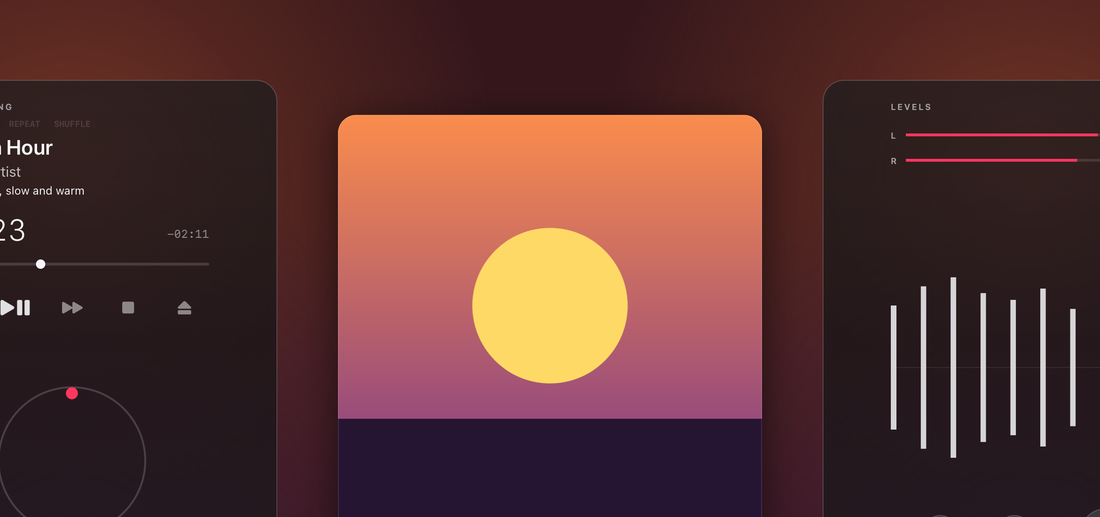
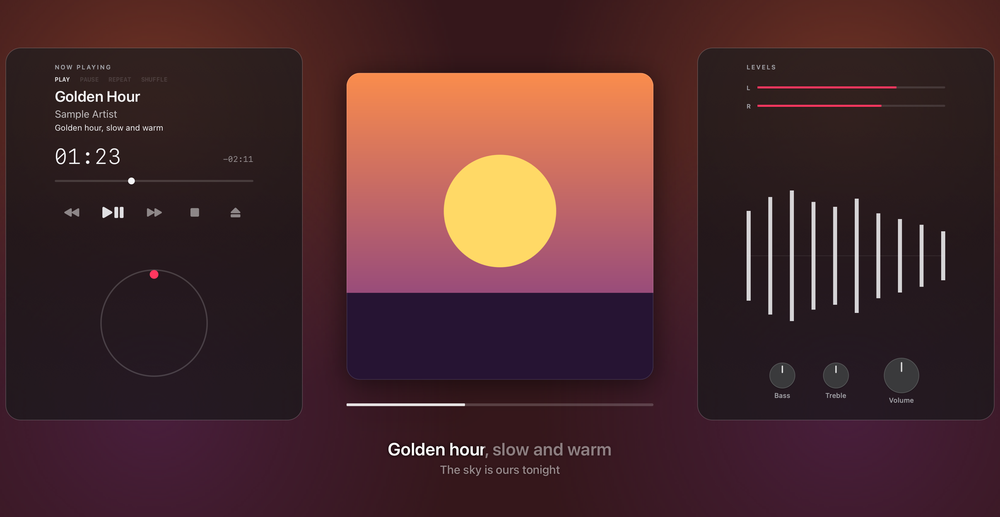
Page: each era with its own picture and caption, Make your own (Cyberpunk, Boombox, the guide's start and finish) and Synced lyrics as their own rows, spacing between pictures and cards; one picture size throughout

diff --git a/index.html b/index.html
@@ -120,6 +120,9 @@
   @media (max-width: 480px) { .shots { grid-template-columns: 1fr; } }
   .shots figure, figure.diagram { margin: 0; background: var(--panel); border: 1px solid var(--line); border-radius: 16px; overflow: hidden; }
   .shots img { display: block; width: 100%; height: auto; background: #000; }
+  .shots + .grid, .grid + .shots, .shots + .shots { margin-top: 18px; }
+  h3.sub { margin: 40px 0 14px; font-size: 1.25rem; }
+  .shots figcaption strong { color: var(--ink); font-size: 15px; }
   figure.diagram { padding: 12px; margin-bottom: 16px; }
   figure.diagram img { display: block; width: 100%; height: auto; border-radius: 10px; }
   figcaption { padding: 10px 14px 12px; font-size: 14px; color: var(--muted); }
@@ -202,29 +205,33 @@
     <span class="badge">New in Betas 1.4, 1.4.5 and 1.5</span>
     <h2>Pick an era, or make your own</h2>
     <p class="lead"><em>Himawari menu ▸ Style…</em> opens every look as a live preview. The controls work the same in all of them, and switching keeps the song where it is.</p>
-    <div class="grid">
-      <div class="card"><div class="emoji">🪵</div><h3>1970s Hi-Fi</h3><p>A walnut receiver whose tuning-dial pointer travels through the song, and a record on a turntable whose tonearm moves in as it plays.</p></div>
-      <div class="card"><div class="emoji">📼</div><h3>1980s Cassette Deck</h3><p>A tape deck whose cassette winds reel to reel, a graphic equalizer, and in the middle a cassette in front of its case, the song written on its label.</p></div>
-      <div class="card"><div class="emoji">💿</div><h3>1990s Portable</h3><p>A portable CD player's LCD and rubber buttons, MEGA BASS on its remote, and the CD turning under the clear lid.</p></div>
-      <div class="card"><div class="emoji">🎚</div><h3>2000s Rack</h3><p>The CD deck and stereo analyzer Himawari started with, in black or champagne gold.</p></div>
-      <div class="card"><div class="emoji">🎧</div><h3>2000s Pocket Player</h3><p>A speaker dock and the player itself, the cover on its screen and a click wheel that scrubs.</p></div>
-      <div class="card"><div class="emoji">🪟</div><h3>Today, Minimal</h3><p>Glass panes, large plain type and a thin waveform, the cover floating on a card: drag the line under it to scrub.</p></div>
-    </div>
     <div class="shots">
-      <figure><img src="assets/boombox.png" alt="A boombox: speaker grilles, a fluorescent display, piano keys, LED meters and a tuning wheel, with a cassette in the middle" loading="lazy"><figcaption>A design file's era: the 1980s Boombox</figcaption></figure>
-      <figure><img src="assets/lyrics.png" alt="Today's glass panels with the line being sung on the display, and big under the cover: the sung words bright, the rest dimmed, the next line below" loading="lazy"><figcaption>Synced lyrics: on the display, and big under the cover as they're sung</figcaption></figure>
-      <figure><img src="assets/styles.png" alt="Six eras of gear side by side" loading="lazy"><figcaption>All six eras</figcaption></figure>
+      <figure><img src="assets/era-hifi.png" alt="A walnut receiver and amplifier with a record on a turntable in the middle" loading="lazy"><figcaption><strong>1970s Hi-Fi</strong><br>A walnut receiver whose dial pointer travels through the song, and a record whose tonearm moves in as it plays.</figcaption></figure>
+      <figure><img src="assets/era-cassette.png" alt="A black tape deck and graphic equalizer with a cassette in front of its open case" loading="lazy"><figcaption><strong>1980s Cassette Deck</strong><br>A tape deck winding reel to reel, a graphic equalizer, and a cassette in front of its case with the song on its label.</figcaption></figure>
+      <figure><img src="assets/era-portable.png" alt="A silver portable CD player face and LCD remote, with the CD turning under a clear lid" loading="lazy"><figcaption><strong>1990s Portable</strong><br>A portable CD player's LCD and rubber buttons, MEGA BASS on its remote, the CD under the clear lid.</figcaption></figure>
+      <figure><img src="assets/era-rack.png" alt="The black CD deck and stereo analyzer with a picture CD" loading="lazy"><figcaption><strong>2000s Rack</strong><br>The CD deck and stereo analyzer Himawari started with, in black or champagne gold.</figcaption></figure>
+      <figure><img src="assets/era-pocket.png" alt="A white speaker dock either side of a pocket player showing the cover, with a click wheel" loading="lazy"><figcaption><strong>2000s Pocket Player</strong><br>A speaker dock, and the player itself: the cover on its screen, a click wheel that scrubs.</figcaption></figure>
+      <figure><img src="assets/era-minimal.png" alt="Dark glass panels with plain type and a waveform, the cover on a floating card" loading="lazy"><figcaption><strong>Today, Minimal</strong><br>Glass panes, large plain type and a thin waveform; the cover floats on a card, and the line under it scrubs.</figcaption></figure>
+    </div>
+    <h3 class="sub">Make your own</h3>
+    <div class="shots">
+      <figure><img src="assets/cyberpunk.png" alt="Neon heads-up-display panels either side of the cover projected as a hologram over a glowing emitter" loading="lazy"><figcaption><strong>Cyberpunk</strong><br>A whole era from a design file: a neon heads-up display, a reactor ring that scrubs, and the cover projected as a hologram. It ships as <em>Cyberpunk ▸ Neon</em>.</figcaption></figure>
+      <figure><img src="assets/boombox.png" alt="A silver boombox with speaker grilles either side of a cassette" loading="lazy"><figcaption><strong>1980s Boombox</strong><br>The other example design: speaker grilles, a fluorescent display, piano keys and a tuning wheel, with a cassette.</figcaption></figure>
+      <figure><img src="assets/guide-0.png" alt="The dark glass panels the guide starts from" loading="lazy"><figcaption><strong>The guide, step 0</strong><br><a href="https://github.com/dhairyab0069/himawari-mac/blob/main/docs/make-your-own.md">Make your own look</a> starts from a copy of <em>Today, Minimal ▸ Dark</em>…</figcaption></figure>
+      <figure><img src="assets/guide-4.png" alt="The finished cyberpunk era built in the guide" loading="lazy"><figcaption><strong>…and step 4</strong><br>…and four small JSON edits later it's an era of your own. Skin and design files reload as you save.</figcaption></figure>
     </div>
     <div class="grid">
-      <div class="card"><div class="emoji">🧩</div><h3>Your own eras</h3><p>A design file stacks blocks on each panel (a display, buttons, a wheel, meters, knobs, speaker grilles, a D-pad…) and picks what plays in the middle. Customise ▸ <em>Make My Own Era…</em> starts you off.</p></div>
-      <div class="card"><div class="emoji">🌃</div><h3>Step by step: Cyberpunk</h3><p><a href="https://github.com/dhairyab0069/himawari-mac/blob/main/docs/make-your-own.md">The guide</a> goes from a copy of a built-in skin to a neon heads-up display with the cover as a hologram. The result ships as <em>Cyberpunk ▸ Neon</em>.</p></div>
+      <div class="card"><div class="emoji">🧩</div><h3>Your own eras</h3><p>A design file stacks blocks on each panel (a display, buttons, a wheel, meters, knobs, speaker grilles, a D-pad…) and picks what plays in the middle: a record, a cassette, a CD, a card, a game cartridge or a hologram. Customise ▸ <em>Make My Own Era…</em> starts you off.</p></div>
       <div class="card"><div class="emoji">🏷</div><h3>Looks that follow the music</h3><p>Let the genre pick the era (jazz on the walnut hi-fi, hip-hop on the rack, pop on the pocket player), with your own rules, or light the gear in the cover's colours.</p></div>
-      <div class="card"><div class="emoji">🎤</div><h3>Synced lyrics</h3><p><em>Himawari menu ▸ Lyrics:</em> on the display, or on the display and the desktop. Words Earlier and Later fix a song's timing, remembered per song.</p></div>
+      <div class="card"><div class="emoji">🎛</div><h3>Customise</h3><p>Animation (full, reduced or still), the meters (each era's, or needles, LEDs or a spectrum anywhere), and your own name on the faceplates.</p></div>
     </div>
-    <h3 style="margin-top:34px">From a copy of a skin to your own era</h3>
+    <h3 class="sub">Synced lyrics</h3>
     <div class="shots">
-      <figure><img src="assets/guide-0.png" alt="Today's dark glass panels: the built-in skin the guide starts from" loading="lazy"><figcaption>Start: a copy of <em>Today, Minimal ▸ Dark</em></figcaption></figure>
-      <figure><img src="assets/guide-4.png" alt="The finished cyberpunk era: a framed HUD display, outlined buttons, a reactor ring, LED meters, a spectrum, readouts and segmented knobs, with the cover as a hologram" loading="lazy"><figcaption>Four small JSON edits later: your own Cyberpunk era (<a href="https://github.com/dhairyab0069/himawari-mac/blob/main/docs/make-your-own.md">the guide</a>)</figcaption></figure>
+      <figure><img src="assets/lyrics.png" alt="Dark glass panels with the lyric on the display and big under the cover, the sung words bright" loading="lazy"><figcaption><strong>On the display and the desktop</strong><br>The line being sung takes the album's place on the display, and shows big under the cover, brightening word by word.</figcaption></figure>
+    </div>
+    <div class="grid">
+      <div class="card"><div class="emoji">🎤</div><h3>Where the words come from</h3><p><a href="https://lrclib.net">LRCLIB</a>, matched by title, artist, album and length, or Apple Music's own lyrics. Off until you turn them on in <em>Himawari menu ▸ Lyrics</em>.</p></div>
+      <div class="card"><div class="emoji">⏱</div><h3>In time</h3><p>The words follow the gear's own clock through seeks, scrubs and pauses. <em>Words Earlier / Later</em> fix a song that runs early or late, remembered per song.</p></div>
     </div>
   </section>
 
